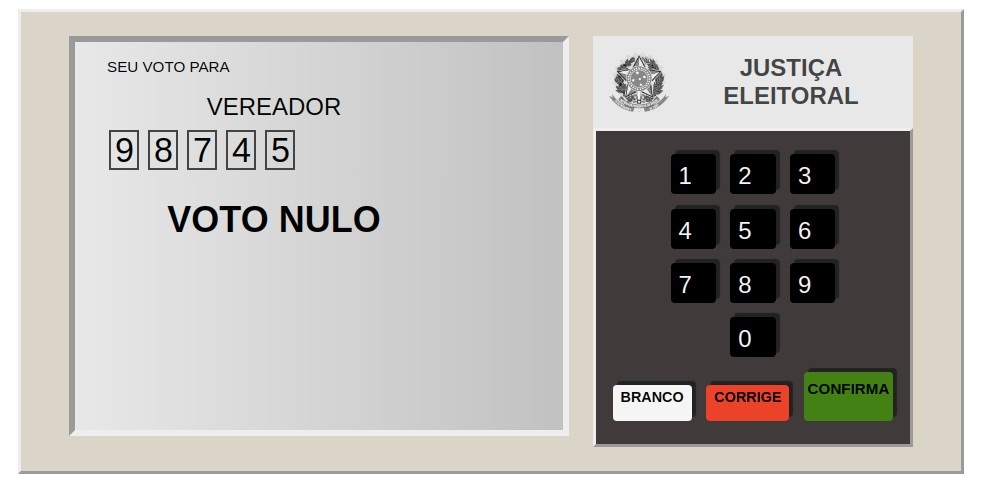
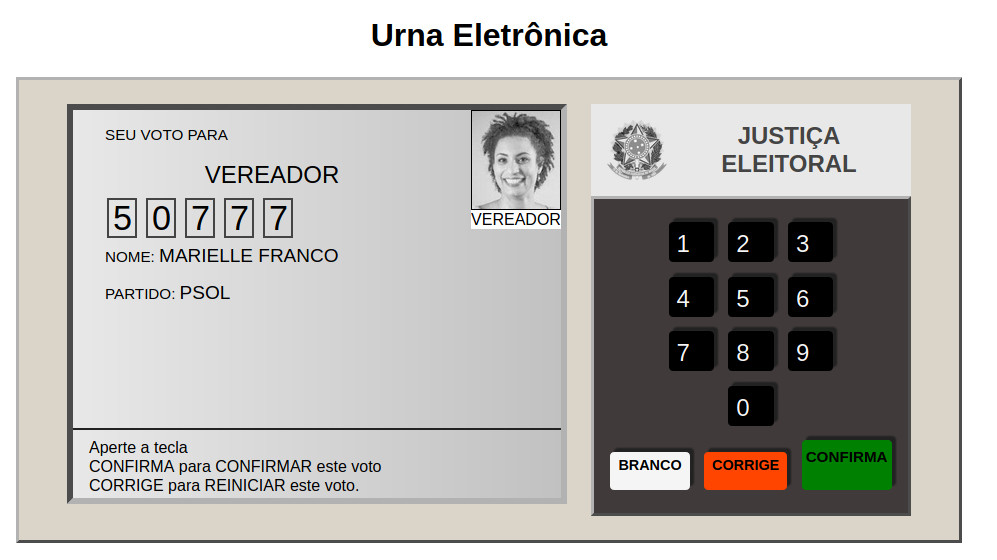
changed according to portfolio

diff --git a/index.html b/index.html
@@ -3,7 +3,7 @@
 <head>
   <meta charset="UTF-8">
   <meta name="viewport" content="width=device-width, initial-scale=1.0">
-  <title>VOTO CONSCIENTE</title>
+  <title>Document</title>
   <script src="js/util.js"></script>
   <script src="js/script.js" defer></script>
   <link rel="stylesheet" href="css/style.css">

diff --git a/README.MD b/README.MD
@@ -1,0 +1,1 @@
+Para vereador vote 50777 prefeito 45000
